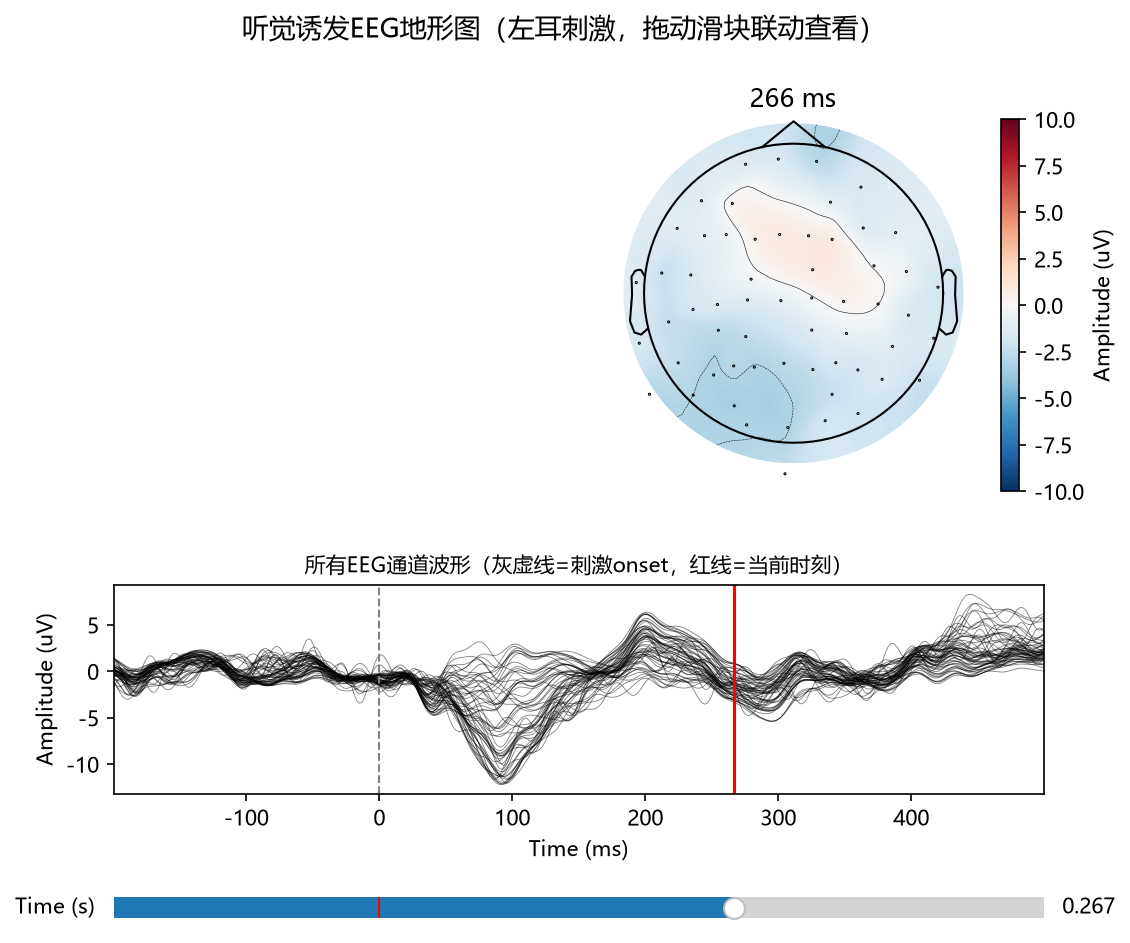
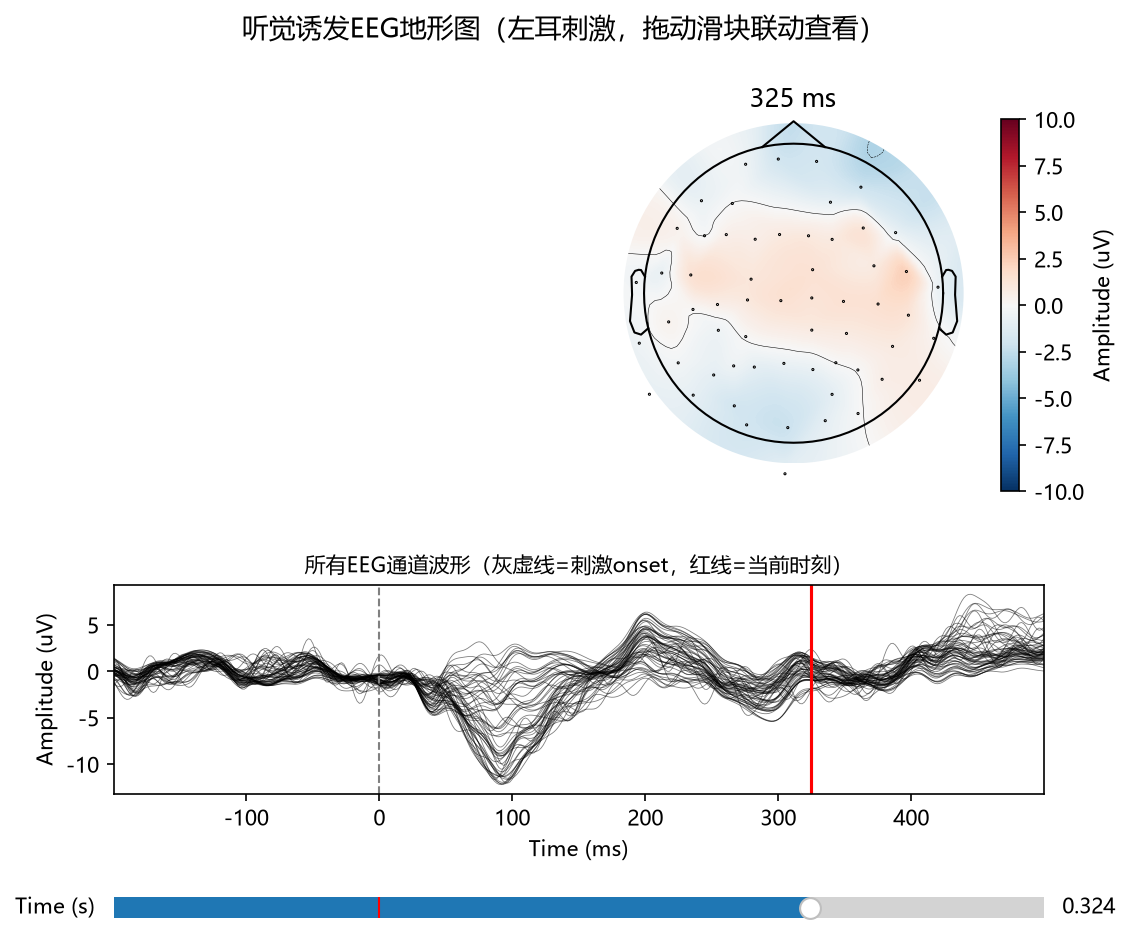
chore: 更新uv.lock、修改图片和简化标题
- 更新虚拟环境源配置
- 替换输出的地形图图片
- 简化图表标题内容

diff --git a/src/topographies/topo4_1.py b/src/topographies/topo4_1.py
@@ -147,7 +147,7 @@ slider = Slider(
 )
 slider.on_changed(_update)
 
-fig.suptitle('听觉诱发EEG地形图（左耳刺激，拖动滑块联动查看）', fontsize=13)
+fig.suptitle('EEG地形图（拖动滑块联动查看）', fontsize=13)
 
 # 交互窗口靠 plt.show() 保持，关掉窗口后再保存图片
 plt.show()
